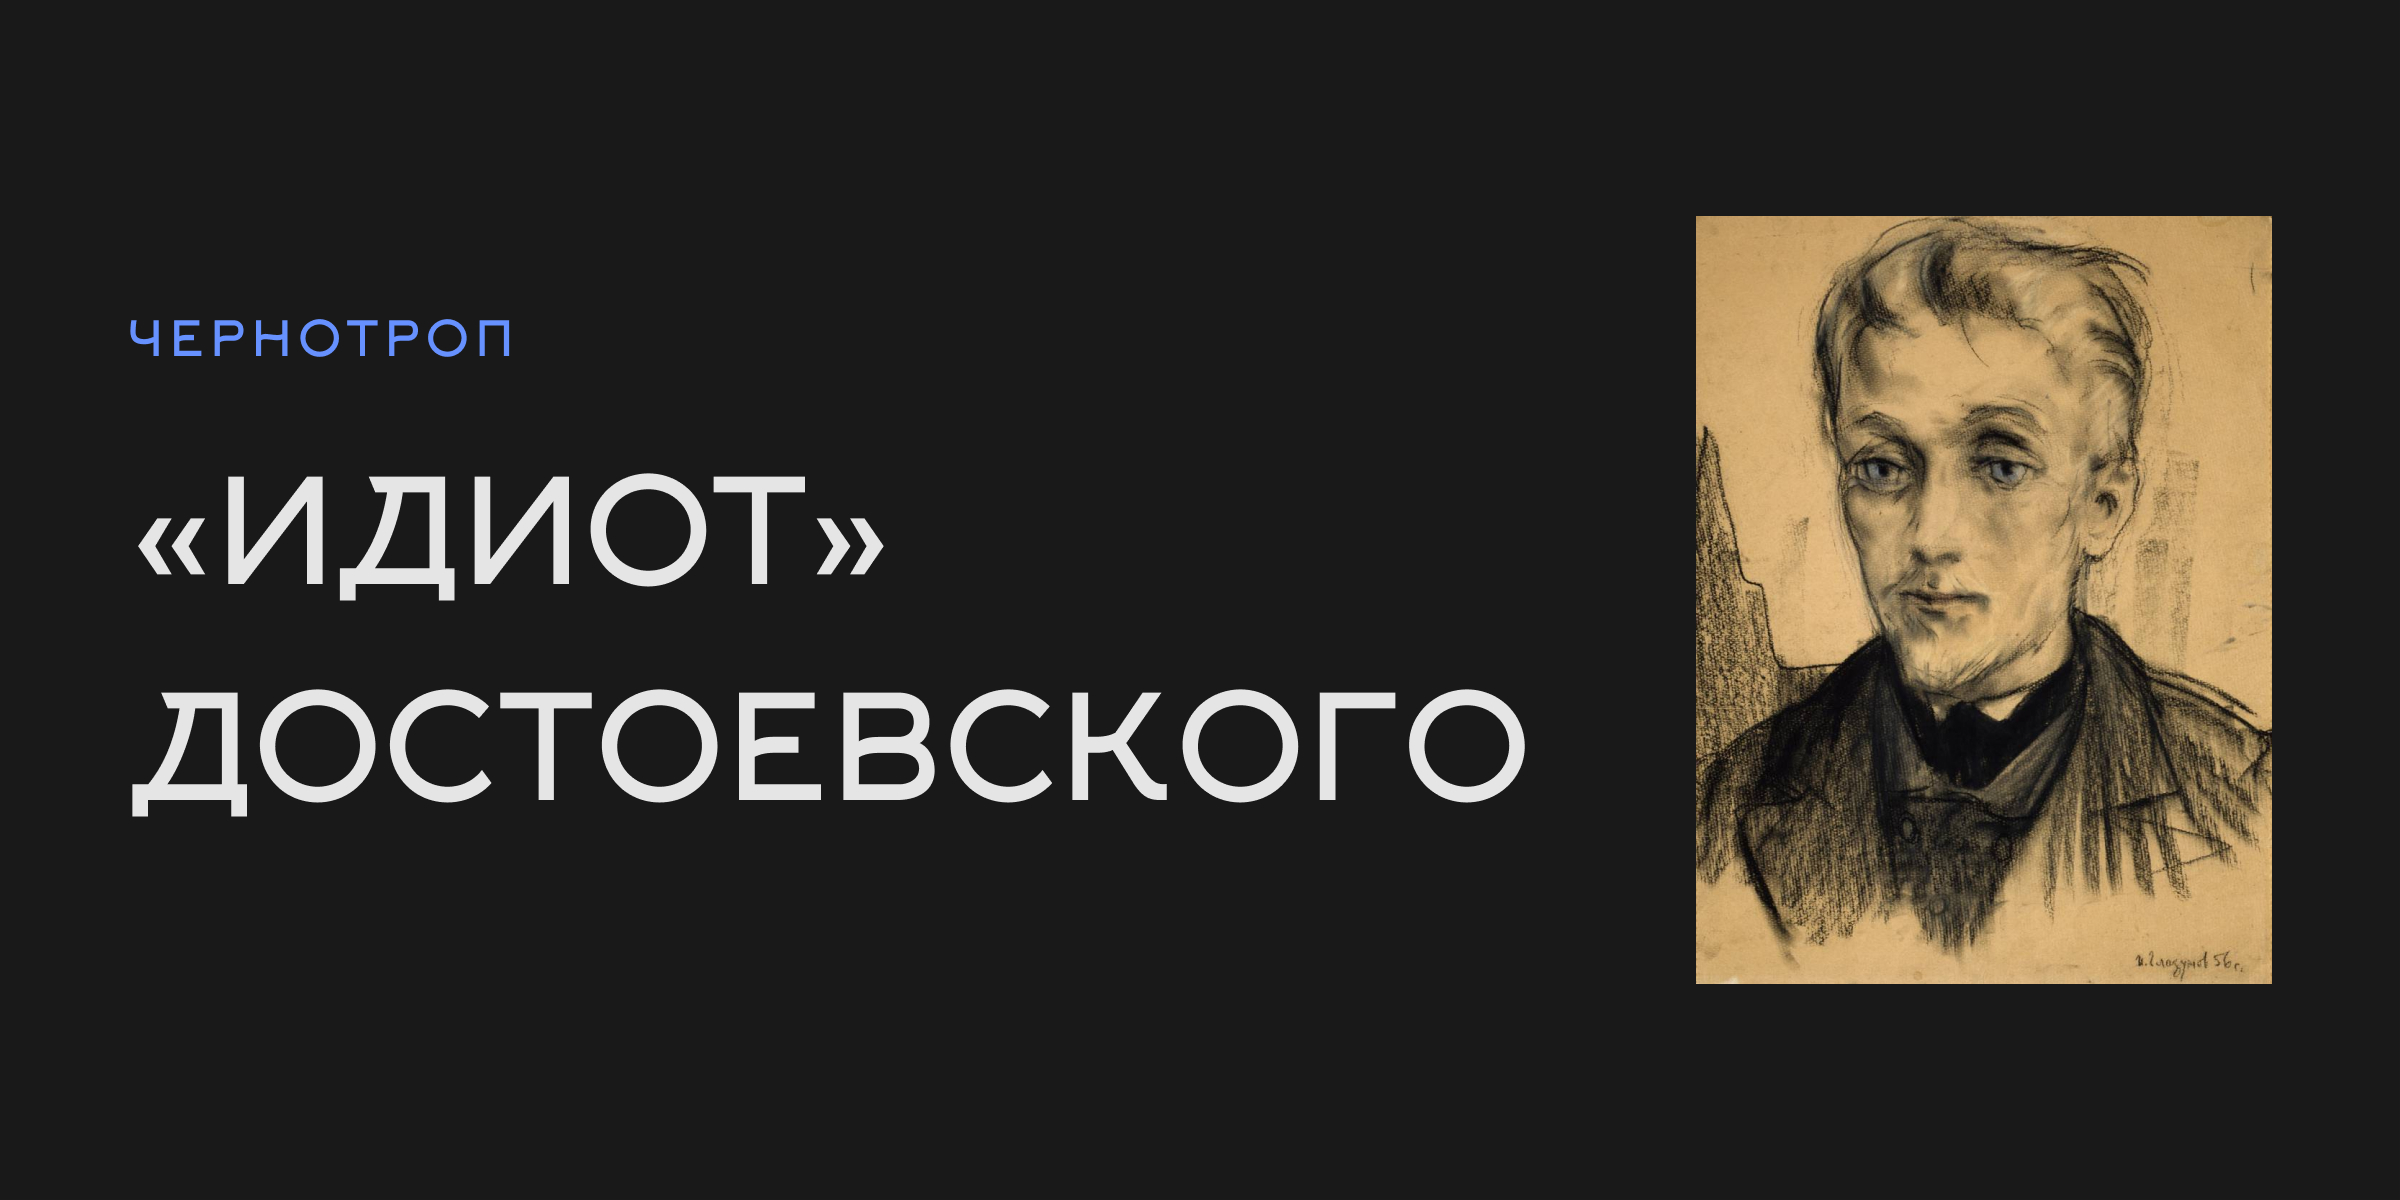
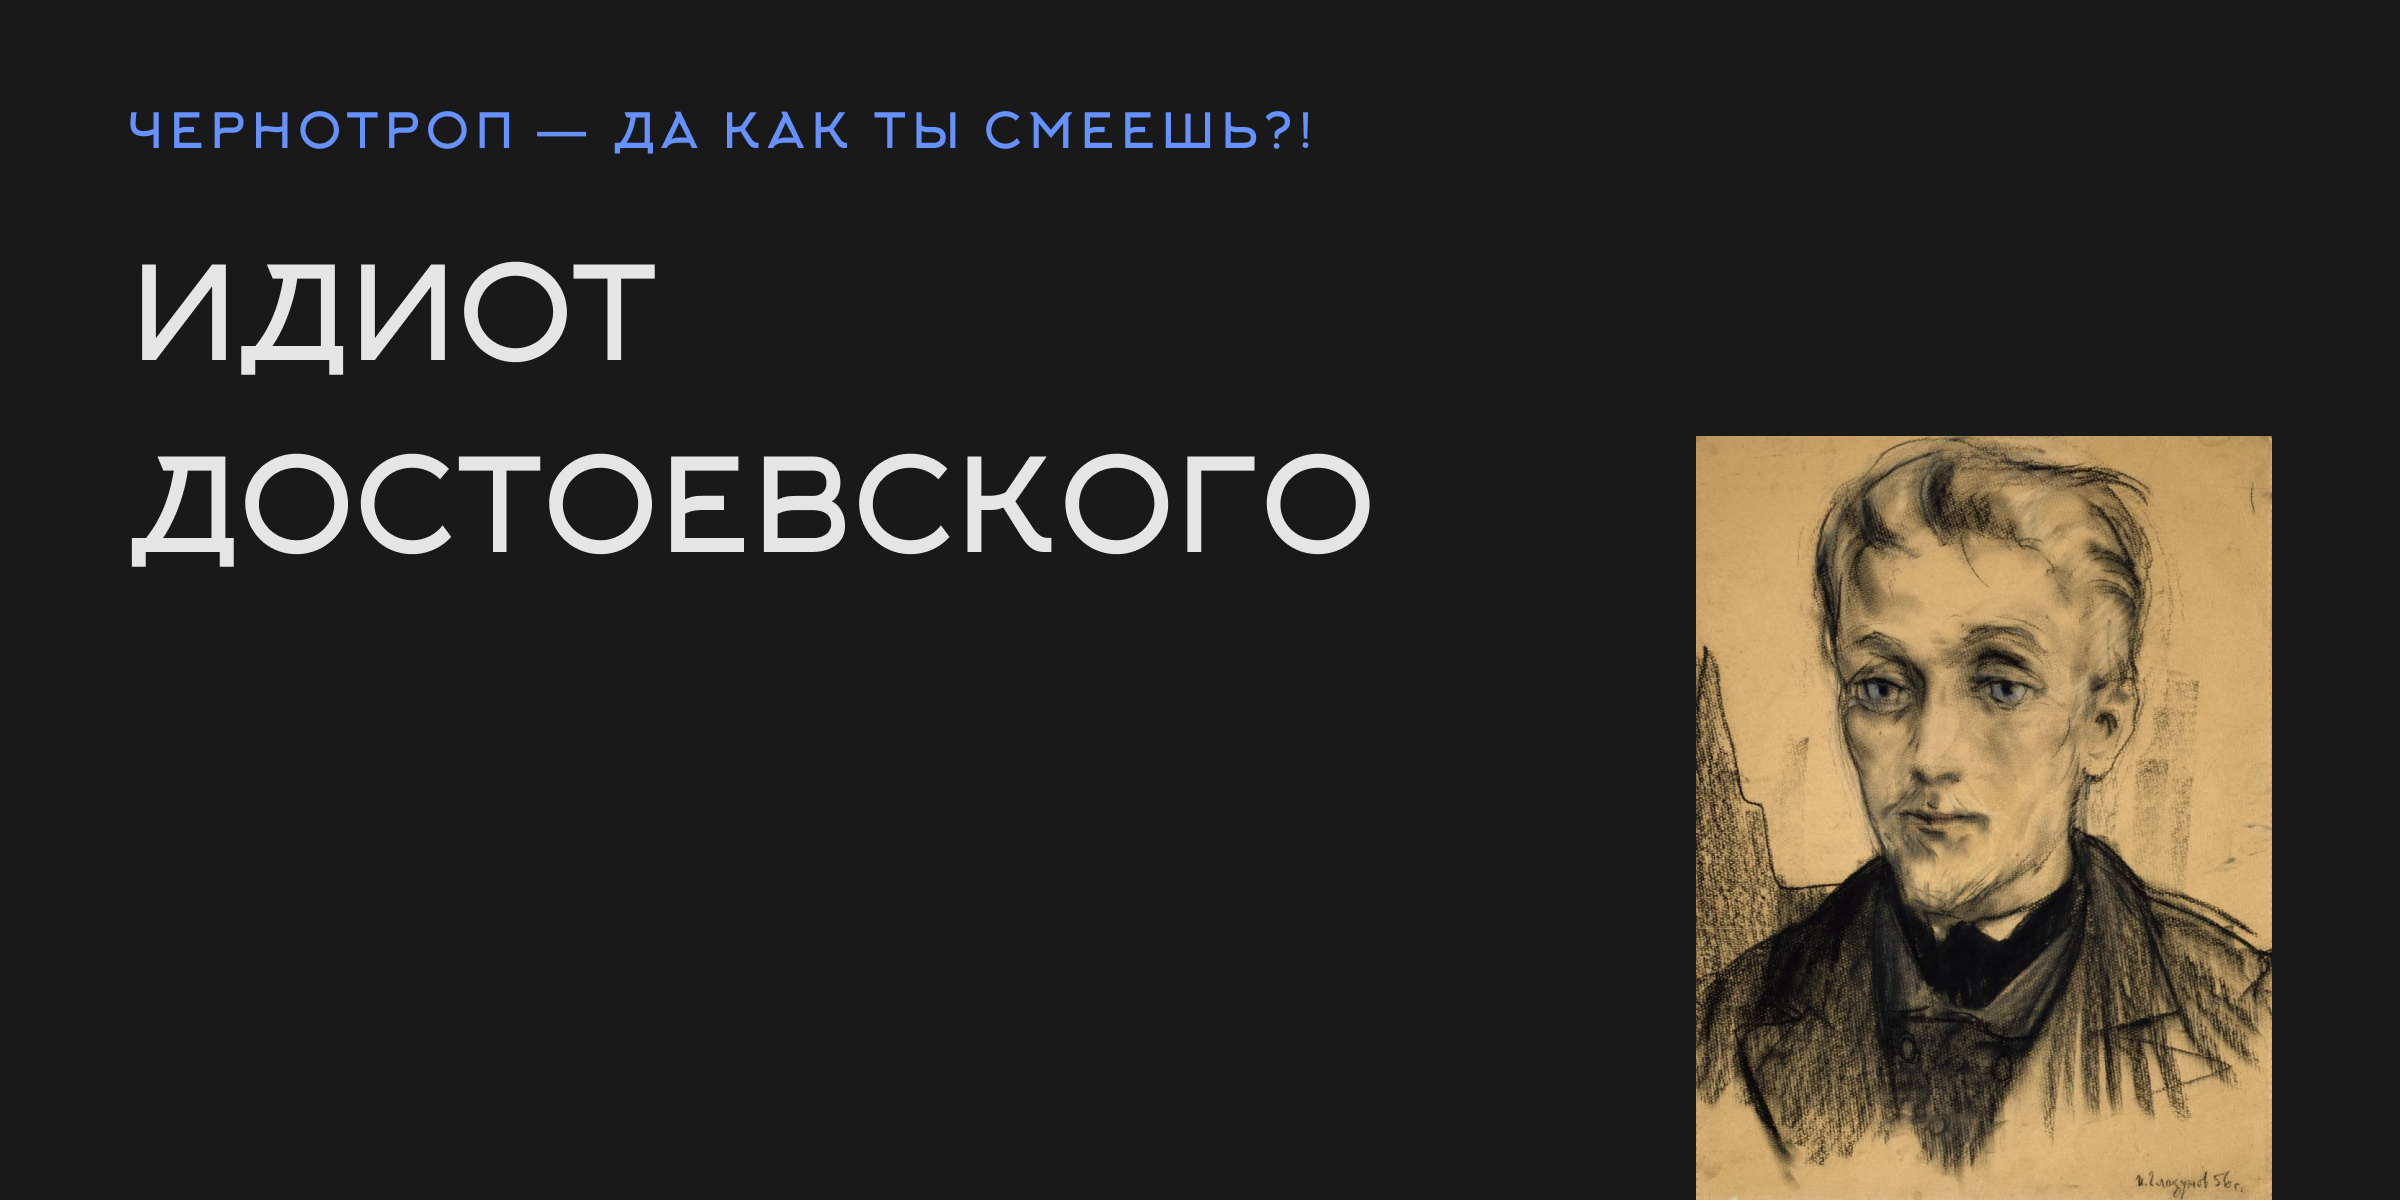
How-dare fixes

diff --git a/docs/how-dare.html b/docs/how-dare.html
@@ -5,7 +5,7 @@
     <meta name="viewport" content="width=device-width, initial-scale=1.0"/>
     <meta property="og:type" content=""/>
     <meta property="og:title" content="«Да как ты смеешь?!» ⚒ Чернотроп"/>
-    <meta property="og:description" content="Рубрика, в которой самоучка, профан Артём Сошников бесстыдно скрещивает русскую классику с современностью."/>
+    <meta property="og:description" content="Рубрика, в которой самоучка и профан Артём Сошников бесстыдно скрещивает русскую классику с современностью."/>
     <meta property="og:image" content="http://chernotrop.reviews/img/how-dare-og.jpg"/>
     <link href="https://fonts.googleapis.com/icon?family=Material+Icons" rel="stylesheet"/>
     <link rel="stylesheet"/><!-- Yandex.Metrika counter --> <script type="text/javascript" > (function(m,e,t,r,i,k,a){m[i]=m[i]||function(){(m[i].a=m[i].a||[]).push(arguments)}; m[i].l=1*new Date();k=e.createElement(t),a=e.getElementsByTagName(t)[0],k.async=1,k.src=r,a.parentNode.insertBefore(k,a)}) (window, document, "script", "https://mc.yandex.ru/metrika/tag.js", "ym"); ym(56951962, "init", { clickmap:true, trackLinks:true, accurateTrackBounce:true, webvisor:true, trackHash:true }); </script> <noscript><div><img src="https://mc.yandex.ru/watch/56951962" style="position:absolute; left:-9999px;" alt="" /></div></noscript> <!-- /Yandex.Metrika counter -->
@@ -26,7 +26,7 @@
   </header>
   <section class="main">
     <div class="main__description">
-      <p>«да как ты смеешь?!» — рубрика, в которой самоучка, профан артём сошников бесстыдно скрещивает русскую классику с современностью.</p>
+      <p>«да как ты смеешь?!» — рубрика, в которой самоучка и профан артём сошников бесстыдно скрещивает русскую классику с современностью.</p>
       <p>именно так выглядели бы сочинения, если б школьников не заставляли заучивать мнения наизусть.</p>
     </div>
     <nav class="main__menu"><a class="main__menu-item" href="index.html" target="blank">главная</a><a class="main__menu-item main__menu-item_active" href="how-dare.html">да как ты смеешь?!</a><a class="main__menu-item" href="http://ttttt.me/blacktrope" target="blank">telegram-канал</a><a class="main__menu-item" href="contacts.html">контакты</a></nav>

diff --git a/docs/how-dare-karenina.html b/docs/how-dare-karenina.html
@@ -32,7 +32,8 @@
     <div class="article__content">
       <div class="article__content-row">
         <div class="article__content-left">
-          <p class="article__content-left-intro">В рубрике «Да как ты смеешь?!» самоучка и профан Артём Сошников бесстыдно скрещивает русскую классику с современностью. Во первом выпуске — роман Льва Толстого «Анна Каренина», который по-прежнему остаётся великим, но теряет свою многогранность.</p>
+          <p class="article__content-left-intro">
+             В рубрике «<a href="how-dare.html"><span>Да как ты смеешь?!</span></a>» самоучка и профан Артём Сошников бесстыдно скрещивает русскую классику с современностью. В первом выпуске — роман Льва Толстого «Анна Каренина», который по-прежнему остаётся великим, но теряет свою многогранность.</p>
           <p class="article__content-left-topor">⚒</p>
           <p>На днях вручили очередную премию НОС — и, конечно же, эксперты опять упомянули о прозе и современности. Анна Наринская рассказала, что она уже больше десяти лет является страшным болельщиком входа реальности в литературу:</p>
           <blockquote>«Меня всегда страшно расстраивало в современной мне русской литературе, что она пыталась абсолютно изолироваться от реальности. Ещё лет двенадцать назад можно было сказать, что ни один русский пишущий человек в окошко не выглядывает».</blockquote>
